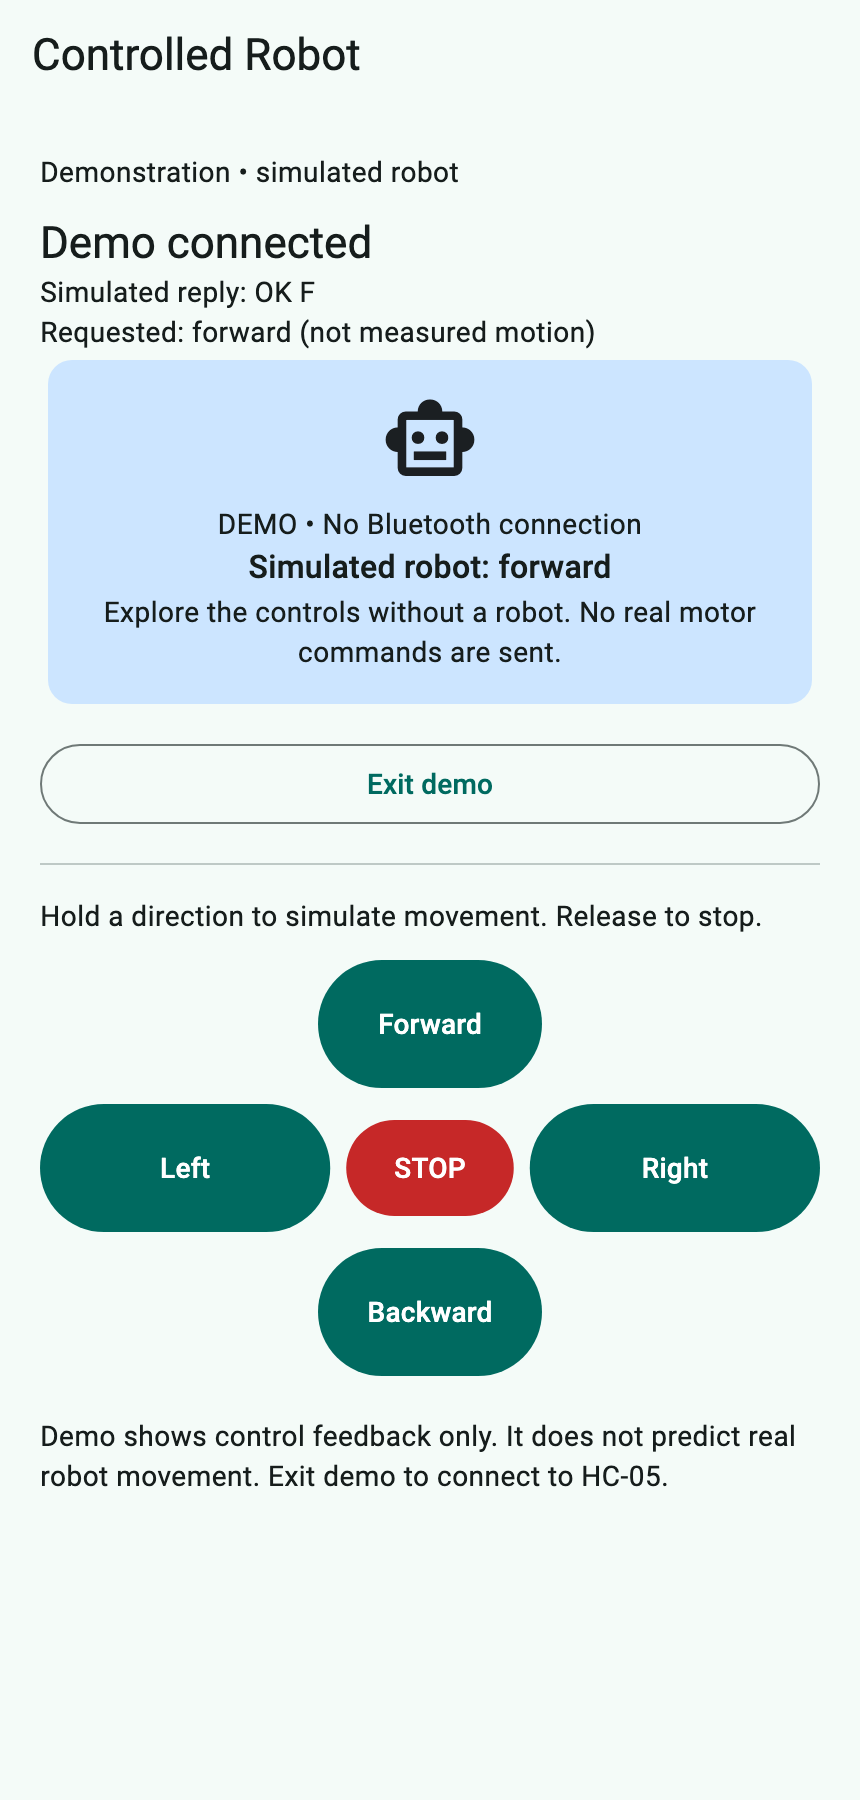
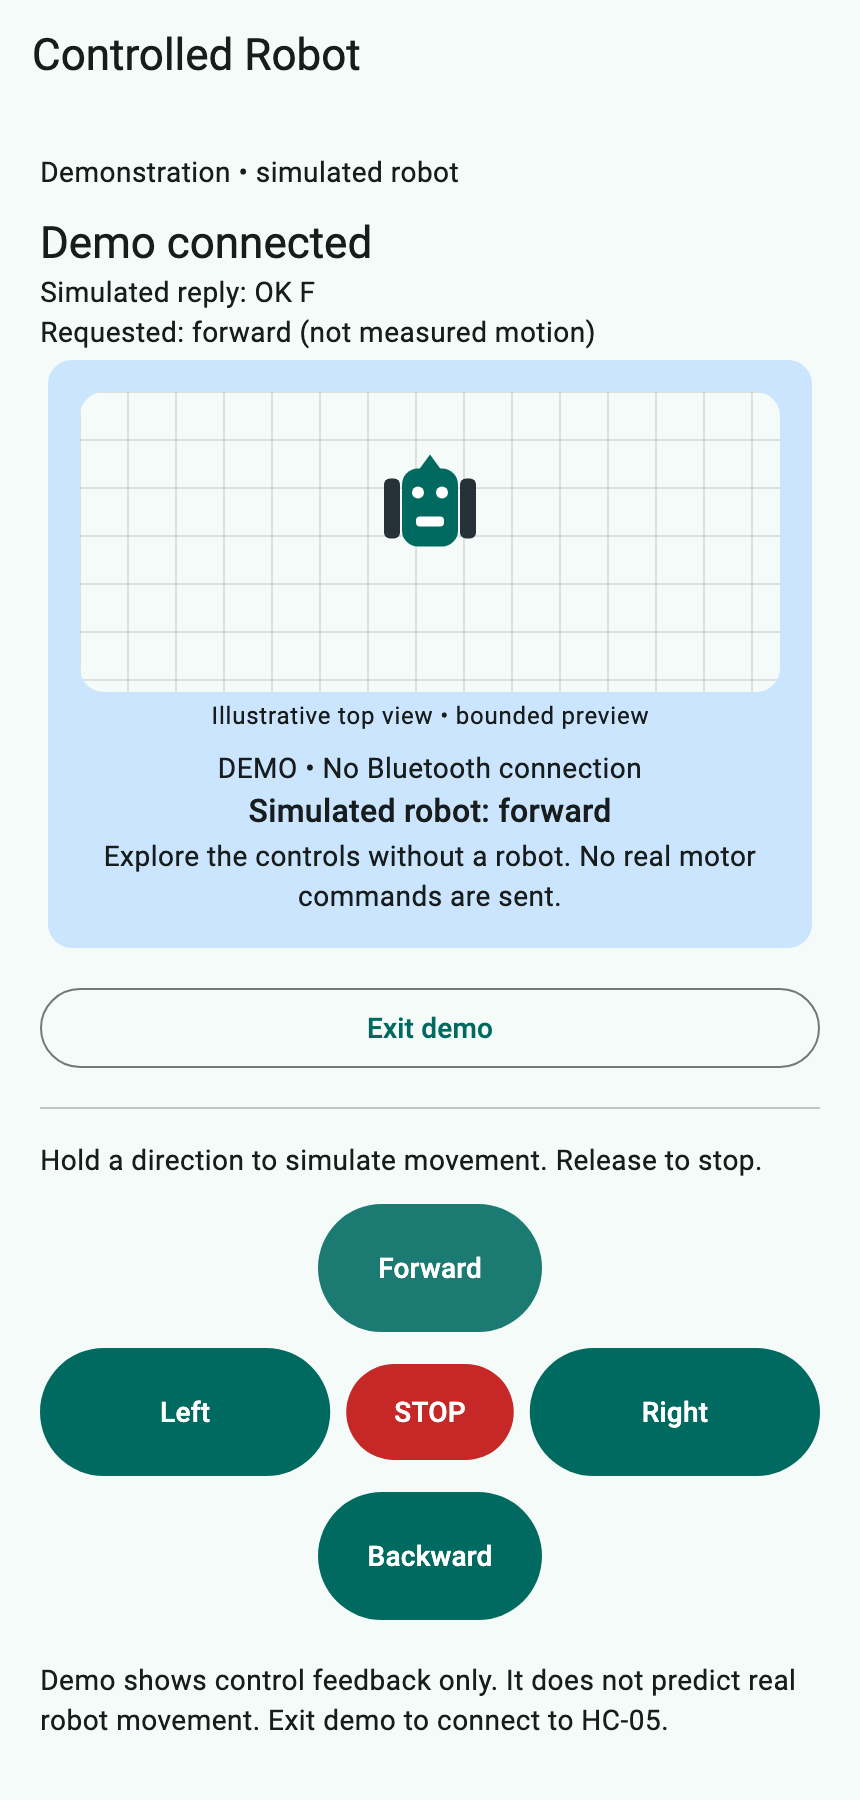
Refresh demo documentation and animated robot screen capture

diff --git a/app/tool/capture_demo.dart b/app/tool/capture_demo.dart
@@ -57,10 +57,20 @@ void main() {
     final held = await tester.startGesture(
       tester.getCenter(find.text('Forward')),
     );
-    await tester.pump(const Duration(milliseconds: 100));
+    await tester.pump();
+    for (var frame = 0; frame < 12; frame++) {
+      await tester.pump(const Duration(milliseconds: 50));
+    }
     expect(c.isDemo, isTrue);
     expect(c.desired, Movement.forward);
     expect(c.reported, 'OK F');
+    expect(
+      tester
+          .widget<Transform>(find.byKey(const Key('demo-position')))
+          .transform
+          .storage[13],
+      lessThan(0),
+    );
     final boundary = tester.renderObject<RenderRepaintBoundary>(
       find.byKey(screen),
     );

diff --git a/README.md b/README.md
@@ -19,11 +19,13 @@ No phone, radio, motor or physical robot has been tested here.
 
 ## Try the controls without a robot
 
-Install the latest **build-3 release APK** from the
+Install the latest **build-4 release APK** from the
 [same GitHub test release](https://github.com/kleberandrade/controlled-robot-arduino/releases/tag/v1.0.0-test.1),
 open the app and tap **Start demo**. No pairing or Bluetooth permission is needed
 for the demo. Hold Forward, Backward, Left or Right to see simulated command
-feedback; release, cancel the touch or tap STOP to return to stop. Tap **Exit demo**
+feedback and an animated top-view robot. Forward/Backward follow the robot's
+heading; Left/Right pivot in place. Release, cancel the touch or tap STOP to
+freeze the robot at its current position. Tap **Exit demo**
 to return to the real Bluetooth connection flow. Backgrounding also exits demo.
 Disconnect an active or pending real connection before starting demo.
 
@@ -32,7 +34,12 @@ Bluetooth. It demonstrates the interface, not robot physics, sensors, radio
 reliability or the Arduino watchdog. Real robot operation still requires the
 documented hardware and firmware.
 
-<img src="docs/screenshots/demo-mode.png" alt="Demo mode showing simulated Forward feedback and movement controls" width="340" />
+The preview stays inside its arena; reverse or turn to move away from an edge.
+Exiting/restarting demo recenters it. Animation pauses when the system requests
+reduced motion; command feedback remains available. Its illustrative distances,
+turning rate and boundaries do not represent real motor speed or collision sensing.
+
+<img src="docs/screenshots/demo-mode.png" alt="Demo mode showing an animated top-view robot moving forward and movement controls" width="340" />
 
 *Automated capture of the production Flutter widgets while Forward is held in
 demo mode; this is not a physical-phone screenshot.*
@@ -134,6 +141,8 @@ controller example. Host tests provide executable examples without hardware.
 - `firmware/robot/Robot.h`: pure parser, movement mapping and elapsed-time rules.
 - `firmware/robot/robot.ino`: Uno pins, driver output and SoftwareSerial adapter.
 - `app/lib/`: bounded reply parser, testable controller, SPP adapter and touch UI.
+- `app/lib/demo_motion.dart` and `demo_robot.dart`: pure illustrative pose rules
+  and a frame-driven, code-drawn robot used only in demo mode.
 - `tests/`: firmware behavior tests; `app/test/`: Dart and widget behavior tests.
 - `app/tool/capture_demo.dart`: repeatable Flutter capture for the README screen.
 - `docs/`: circuit, assembly, protocol and [work log](docs/WORK_LOG.md).
@@ -166,7 +175,8 @@ ROBOT_FONT_DIR=/path/to/flutter/bin/cache/artifacts/material_fonts \
 
 This loads the SDK's Roboto/Material fonts, renders the actual app widgets at a
 430×900 logical viewport and writes `docs/screenshots/demo-mode.png` at 2× scale.
-The capture also checks that releasing Forward returns to stop.
+The capture advances animation frames and checks that the robot has moved, then
+verifies that releasing Forward returns to stop.
 
 ## Troubleshooting and limitations
 

diff --git a/docs/WORK_LOG.md b/docs/WORK_LOG.md
@@ -26,3 +26,10 @@
 - Added a visible demo banner, simulated command feedback, Start/Exit demo actions, and a responsive direction row. Gesture tests cover all four movements, release, pointer cancellation, STOP while holding, exit and backgrounding. Existing real-link behavior tests remain in place.
 - Local validation passed: flutter analyze --fatal-infos with no issues, all 11 protocol/controller/widget tests, plus the separate production-widget screen capture and release-after-hold assertion. Captured the actual Flutter UI with SDK Roboto/Material fonts at 430x900 logical pixels, inspected the PNG visually and embedded it in README with an explicit automated-render caption. No emulator, physical phone, radio or robot was used.
 - Built version 1.0.0 build 3 in release mode: 44,568,773 bytes, non-debuggable, AOT for ARMv7/ARM64/x86_64, signature verified with the same test-release certificate as build 2. The older release APK can be updated directly; debug-signed build 1 still needs the documented one-time uninstall. Private signing material remains local and git-ignored. Updated demo/protocol/install documentation and screenshot regeneration instructions.
+
+## Animated demo robot
+
+- Wrote pose/animation tests first and observed missing-library failures. Added pure illustrative pose rules and an original code-drawn top-view robot on a bounded grid. Forward/reverse follow heading; left/right pivot; stop preserves position/orientation. The visual layer consumes movement state only and never opens Bluetooth or sends commands.
+- Added a frame ticker that stops on STOP, removal, reduced motion and disabled TickerMode. Capped frame gaps to avoid jumps. A real-touch integration test exposed that discarding the initial elapsed sample delayed the first visible motion; initialized the ticker baseline to zero and verified the correction. Added trajectory, bounds, frame-gap, pause/resume, reduced-motion and background-disposal coverage.
+- Local gate passed: formatting, flutter analyze --fatal-infos (no issues), all 17 tests and the separate screen-capture test. Regenerated and visually inspected the README PNG after advancing animation frames; the capture now asserts actual rendered movement. The image remains explicitly labelled as an automated Flutter capture, not a physical-phone screenshot.
+- Built version 1.0.0 build 4 in release mode: 44,585,025 bytes. Verified versionCode 4, non-debuggable manifest, AOT for all three ABIs and the same dedicated release certificate as builds 2–3. Existing release installs can update directly. No physical phone, radio, robot or measured performance test was performed. No animation package or bitmap asset was added; existing Dart/C++ metric-tool limitations remain unchanged.

diff --git a/docs/ANDROID_RELEASE.md b/docs/ANDROID_RELEASE.md
@@ -2,7 +2,8 @@
 
 The GitHub test release includes an optimized, non-debuggable APK for Android
 API 24+. It retains the same robot protocol as the original debug build. Version
-1.0.0 build 3 adds demo mode and updates build 2 with the same release signature.
+1.0.0 build 4 adds an animated robot to demo mode and updates builds 2–3 with the
+same release signature.
 The original debug APK remains build 1.
 This is still a hardware-unvalidated test release, not a store deployment.
 
@@ -78,7 +79,7 @@ The HC-05 pairing belongs to Android system Bluetooth settings, not app storage.
 
 The existing `v1.0.0-test.1` tag still identifies the original source commit; it
 is not rewritten. The release notes identify the separate source commit for
-each added release APK. Build 3 can update the build-2 release APK directly;
+each added release APK. Build 4 can update the build-2/3 release APK directly;
 switching from build 1's debug signature still requires the uninstall described
 above. Older assets remain available for reference.
 

diff --git a/docs/PROTOCOL.md b/docs/PROTOCOL.md
@@ -48,6 +48,13 @@ stopped and discards feedback before a real connection can start. This is a UI
 and protocol-feedback demonstration, not a simulation of firmware timing or
 motor physics.
 
+Demo's animated preview consumes the requested movement enum locally. Forward
+and backward translate along its current heading; left and right rotate in place.
+Stop freezes the pose, arena bounds clamp the illustration, and exit destroys
+the animation state. Rendering never emits protocol frames or Bluetooth calls.
+Frame gaps are capped and reduced-motion/TickerMode pauses stop the animation
+clock. These visual rules are independent of the real firmware watchdog.
+
 ```sh
 ./scripts/test-firmware.sh
 cd app

diff --git a/app/README.md b/app/README.md
@@ -6,5 +6,7 @@ The runnable target is Android API 24+ with an HC-05 Classic SPP radio; iOS is
 not supported. No physical device validation has been performed.
 
 Tap **Start demo** to test hold/release, STOP and simulated command feedback
-without pairing, permissions or a robot. Tap **Exit demo** before connecting
+without pairing, permissions or a robot. A top-view robot advances, reverses and
+pivots with the controls; release/STOP freezes it. The preview is illustrative
+and respects reduced-motion settings. Tap **Exit demo** before connecting
 to real hardware. The screenshot capture command is documented in the root README.
